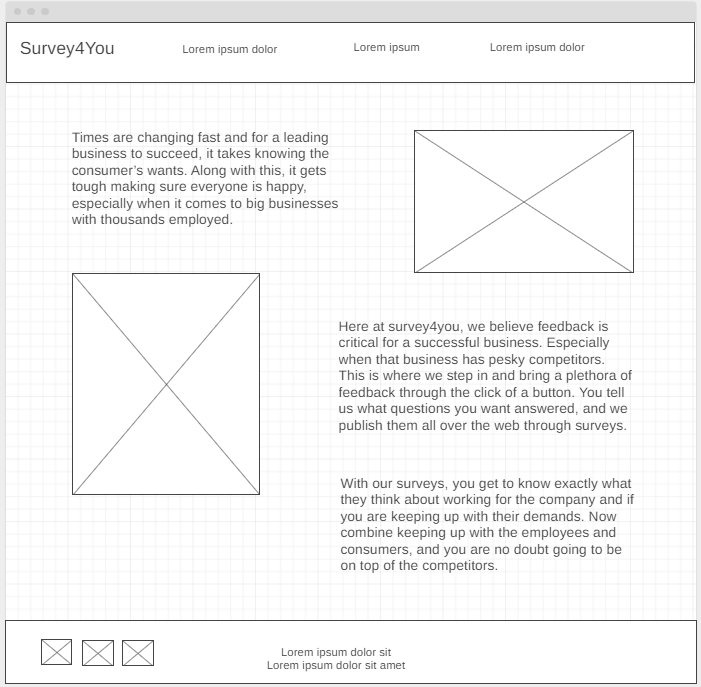
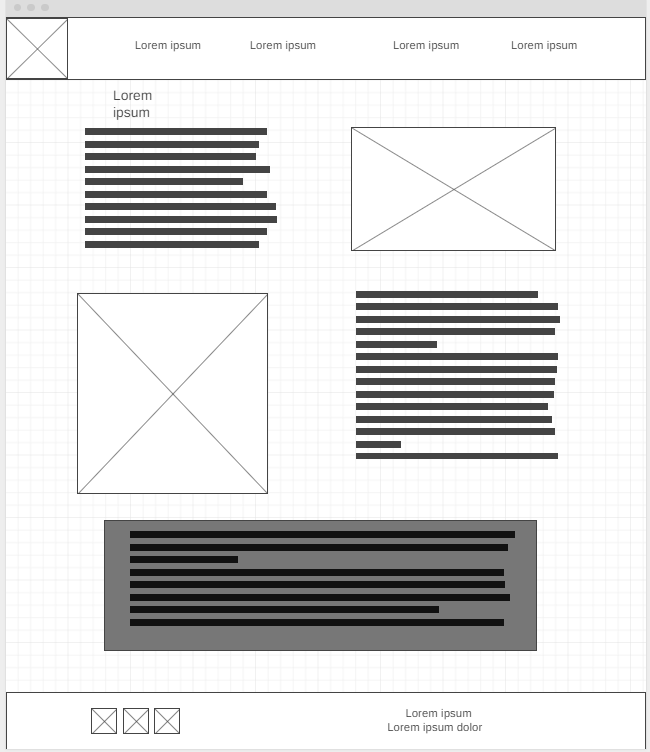
final changes

diff --git a/survey4you/surveyguide.html b/survey4you/surveyguide.html
@@ -13,7 +13,7 @@
     <div id="everything">
         <header>
             <a id="logo_link" href="index.html">
-                <img class="logo" src="images/rsz_surv_logo.png" alt="Survey4you logo">
+                <img class="logo" src="images/rsz_newlogo.png" alt="Survey4you logo">
             </a>
             <nav>
                 <a href="index.html">Home</a>
@@ -25,58 +25,46 @@
 
         <main class="survey-grid">
             <div id="content">
-                <h2>Tips for creating good survey questions</h2>
-                <p>There are many things when it comes to survey questions and creating the questions without a few
+                <h2 class="survey-guide">Tips for creating good survey questions</h2>
+                <p class="opener">There are many things when it comes to survey questions and creating the questions without a few
                     guidelines will cause issues. That is why here at Survey4you we offer a set of rules to help guide you
                     with what to ask.</p>
-                <section>
                     <div>
-                        <h3>Tips for surveying customers</h3>
+                        
                     </div>
-                    <div>
-                        <ul type="disc">
-                            <li><b>Have a main question that you want answered</b></li>
-                            <ul type="circle">
-                                <li>It may seem smart to have a lot of different topics asked in one survey, but surveys
+                    <div class="customer">
+                        <h3>Tips for surveying customers</h3>
+                        <ul>
+                            <li><h4 class="pointone">Have a main question that you want answered</h4></li>
+                            
+                                <li type="circle">It may seem smart to have a lot of different topics asked in one survey, but surveys
                                     that do so are rarely finished. Be specific in exactly what type of survey you are
                                     wanting and make a goal. If you are wanting to know why you are losing customers, then
                                     it would be best to make a churn survey.</li>
-                            </ul>
-                            <li><b>Remember to be unbiased and precise</b></li>
-                            <ul type="circle">
-                                <li>Surveys with questions that are long, complex, or vague will cause many issues when it
+                            
+                            <li><h4 class="pointone">Remember to be unbiased and precise</h4></li>
+                                <li type="circle">Surveys with questions that are long, complex, or vague will cause many issues when it
                                     comes to getting feedback. So, it is recommended that the questions are simple and
                                     written in easily understood vocabulary.</li>
-                                <li>Be sure to use neutral language that doesn’t side with anything as that can make the
+                                <li type="circle">Be sure to use neutral language that doesn’t side with anything as that can make the
                                     respondents answer in accurate and something they don't agree with.</li>
-                                <li>Being precise is critical as it makes the questions smaller and helps with coherency of
+                                <li type="circle">Being precise is critical as it makes the questions smaller and helps with coherency of
                                     the questions.</li>
-                            </ul>
                         </ul>
                     </div>
-                </section>
                 <img class="star-img" src="images/rsz_rating.jpg" alt="5 star rating">
-                <section>
-                    <div>
+                    <div class="employee">
                         <h3>Tips for surveying employees</h3>
-                    </div>
-                    <div>
-                        <ul type="dics">
-                            <li><b>Keep the survey anonymous</b></li>
-                            <ul type="circle">
-                                <li>You will get much more honesty and participation if the employees know they won't be
+                        <ul>
+                            <li><h4 class="pointtwo">Keep the survey anonymous</h4></li>
+                                <li type="circle">You will get much more honesty and participation if the employees know they won't be
                                     traced back to what they are answering.</li>
-                            </ul>
-                            <li><b>Don't have too long of a survey</b></li>
-                            <ul type="circle">
-                                <li>It is a good idea to keep the survey as short as possible. Not only
+                            <li><h4 class="pointtwo">Don't have too long of a survey</h4></li>
+                                <li type="circle">It is a good idea to keep the survey as short as possible. Not only
                                     will you have less participation, but also more automatic answers that aren't going to be
                                     good for improving the company's overall successfulness. </li>
-                            </ul>
                         </ul>
                     </div>
-                </section>
-                <img class="hear-img" src="images/rsz_we_hear.jpg" alt="We hear you">
             </div>
         </main>
 

diff --git a/survey4you/styles/style.css b/survey4you/styles/style.css
@@ -8,23 +8,12 @@ body, html {
 
 div {
     max-width: 1600px;
-    
+    margin: 0 auto;
 }
 
 .home-grid {
     display: grid;
     grid-template-columns: 1fr 1fr;
-}
-
-.parallax {
-    background-image: url("surv_logo.png");
-
-    height: 100%;
-
-    background-attachment: fixed;
-    background-position: center;
-    background-repeat: no-repeat;
-    background-size: cover;
 }
 
 .msgone {
@@ -53,6 +42,19 @@ nav a {
     color: #DCE0D9;
     text-decoration: none;
     padding: 35px;
+}
+
+li {
+    text-align: left;
+    text-indent: 30px;
+}
+
+.pointone {
+    text-align: center;
+}
+
+.pointtwo {
+    text-align: center;
 }
 
 footer {
@@ -84,14 +86,58 @@ footer {
     font-family: 'Montserrat', sans-serif;
 }
 
+#faqcontent {
+    grid-template-columns: 1fr;
+    padding-left: 350px;
+    padding-right: 250px;
+    font-size: 1.4em;
+    text-align: center;
+    font-family: 'Montserrat', sans-serif;
+}
+
+.faq {
+    text-align: left;
+    padding-left: 350px;
+    padding-right: 250px;
+    padding-top: 100px;
+    font-size: 2.4em;
+    font-family: 'Source Code Pro', monspace;
+}
+
+.thank-img {
+    box-shadow: 5px 5px 10px gray;
+    background: #6B0F1A;
+    padding: 1px;
+    border: 15px solid #595959;
+}
+
+.mail-img {
+    box-shadow: 5px 5px 10px gray;
+    background: #6B0F1A;
+    padding: 1px;
+    border: 15px solid #595959;
+}
+
+.hear-img {
+    box-shadow: 5px 5px 10px gray;
+    background: #6B0F1A;
+    padding: 1px;
+    border: 15px solid #595959;
+}
+
 h1, h2 {
     font-family: 'Source Code Pro', monspace;
+}
+
+.home {
+    text-align: left;
+    margin: 50px
 }
 
 .msgone {
     grid-column: 1/3;
     grid-row: 1/2;
-    background-color: #DCE0D9
+    background-color: #DCE0D9;
 }
 
 .msgtwo {
@@ -101,7 +147,7 @@ h1, h2 {
     padding: 25px;
     color: white;
     box-shadow: 5px 5px 10px gray;
-    margin-top: 50px
+    margin-top: 50px;
 }
 
 .msgthree {
@@ -128,10 +174,38 @@ h1, h2 {
     border: 15px solid #595959;
 }
 
+.survey-guide {
+    grid-column: 1/2;
+    grid-row: 1/1;
+}
 
+.opener {
+    grid-column: 1/2;
+    grid-row: 2/3; 
+}
 
-@media only screen and (mad-device-width: 1366px) {
-    .parallax {
-        background-attachment: scroll;
+.star-img {
+    grid-column: 2/3;
+    grid-row: 2/3;
+    box-shadow: 5px 5px 10px gray;
+    background: #6B0F1A;
+    padding: 1px;
+    border: 15px solid #595959;
+}
+
+.customer {
+    grid-column: 1/2;
+    grid-row: 4/5;
+}
+
+.employee {
+    grid-column: 2/3;
+    grid-row: 4/5;
+}
+
+@media screen and (max-width: 900px) {
+    #content, .home-grid {
+        display: block;
+        height: auto;
     }
 }

diff --git a/survey4you/index.html b/survey4you/index.html
@@ -22,13 +22,14 @@
                 <a href="site-plan.html">Site Plan</a>
             </nav>
         </header>
-        <div class="parallax"></div>
         <main class="home-grid">
+            
             <div id="content">
                 <div class="msgone">
+                    <h2 class="home">Survey4you</h2>
                     <p>Times are changing fast and for a leading business to succeed, it takes knowing the consumer's wants.
-                        Along with this, it gets tough making sure everyone is happy, especially when it comes to big
-                        businesses with thousands employed.</p>
+                    Along with this, it gets tough making sure everyone is happy, especially when it comes to big
+                    businesses with thousands employed.</p>
                 </div>
                 <img class="phone-img" src="images/rsz_phone_point.jpg" alt="Pointing at phone">
                 <img class="handshake-img" src="images/rsz_work_supp.jpg" alt="Handshake sign">

diff --git a/survey4you/faq.html b/survey4you/faq.html
@@ -13,7 +13,7 @@
     <div id="everything">
         <header>
             <a id="logo_link" href="index.html">
-                <img class="logo" src="images/rsz_surv_logo.png" alt="Survey4you logo">
+                <img class="logo" src="images/rsz_newlogo.png" alt="Survey4you logo">
             </a>
             <nav>
                 <a href="index.html">Home</a>
@@ -24,8 +24,8 @@
         </header>
 
         <main class="survey-grid">
-            <div id="content">
-                <h2>FAQ</h2>
+            <h2 class="faq">FAQ</h2>
+            <div id="faqcontent">
                 <section>
                     <div>
                         <h3>How is feedback received?</h3>
@@ -62,6 +62,7 @@
                         </p>
                     </div>
                 </section>
+                <img class="hear-img" src="images/rsz_we_hear.jpg" alt="We hear you">
                 <section>
                     <div>
                         <h3>Specifiactions of surveys</h3>

diff --git a/survey4you/site-plan.html b/survey4you/site-plan.html
@@ -190,7 +190,6 @@
     </p>
     <p>Images for the Page 2</p>
     <img src="images/rsz_rating.jpg" alt="5 stars">
-    <img src="images/rsz_we_hear.jpg" alt="We hear you">
 
     </ul>
     <h3>[Page 2] (FAQ)</h3>
@@ -214,6 +213,7 @@ Specifications of surveys
     <p>Images for the Page 3</p>
     <img src="images/rsz_thank.jpg" alt="Thank you">
     <img src="images/rsz_mail.jpg" alt="You've got mail">
+    <img src="images/rsz_we_hear.jpg" alt="We hear you">
 
     </ul>
     <hr>
